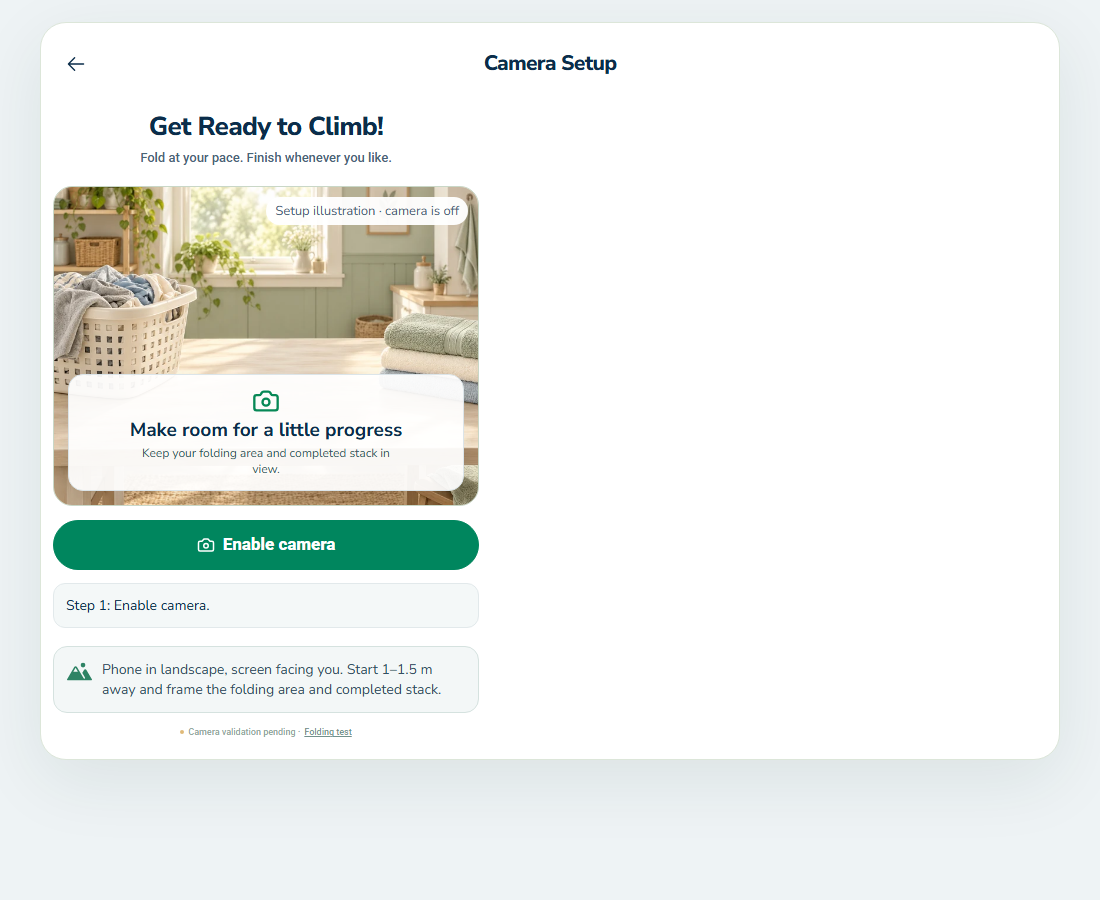
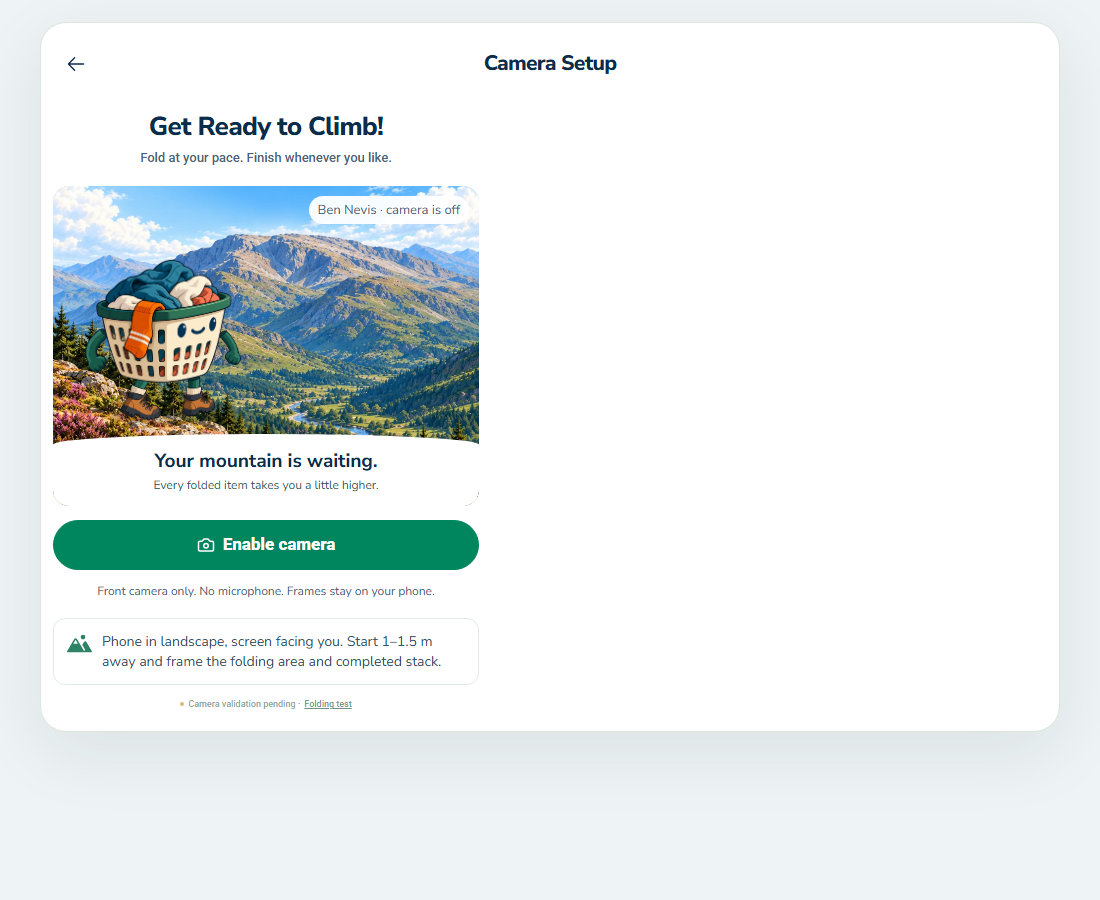
Bring camera setup into the illustrated app family [skip netlify]

Changed region(s): [[0.0309, 0.1867, 0.4327, 0.56], [0.0309, 0.6533, 0.9582, 0.8711]]

diff --git a/src/components/CameraLab.tsx b/src/components/CameraLab.tsx
@@ -5,6 +5,7 @@ import { FoldingDetector } from '../vision/detector'
 import { DEFAULT_ZONES, VISION, ZONE_NAMES, difference, extractSignals } from '../vision/signals'
 import type { Rect, Signals, VisionConfig, ZoneName, Zones } from '../vision/signals'
 import { FieldTestGuide } from './FieldTestGuide'
+import { ScenicArtwork } from './ScenicArtwork'
 import type { GuideSession } from './FieldTestGuide'
 import type { ReactNode } from 'react'
 
@@ -139,9 +140,9 @@ export function CameraLab({ active, paused = false, presentation = 'field', onEv
     <div className={`camera-preview ${editing ? 'editing' : ''}`} style={{ aspectRatio: presentation === 'game' && camera !== 'on' ? 4 / 3 : ratio, '--camera-ratio': ratio } as CSSProperties} onPointerDown={e => { if (editing) { e.currentTarget.setPointerCapture(e.pointerId); drag.current = position(e) } }} onPointerMove={drawZone} onPointerUp={e => { drawZone(e); drag.current = null }} onPointerCancel={() => { drag.current = null }}>
       <video ref={video} muted playsInline autoPlay style={{ transform: flipped ? 'scaleX(-1)' : 'none' }} aria-label={`${flipped ? 'Flipped' : 'Original'} full-frame live camera preview`} />
       {camera !== 'on' && (presentation === 'game' ? <div className="camera-empty illustrated-setup">
-        <img src="/art/folding-workspace-guide.webp" alt="Setup illustration: pickup basket on the left, empty folding area in the centre, completed stack on the right." />
-        <span className="illustration-label">Setup illustration · camera is off</span>
-        <div className="camera-off-message"><Camera size={28}/><strong>{camera === 'requesting' ? 'Allow front camera access' : 'Make room for a little progress'}</strong><span>Keep your folding area and completed stack in view.</span></div>
+        <ScenicArtwork />
+        <span className="illustration-label">Ben Nevis · camera is off</span>
+        <div className="camera-off-message"><strong>{camera === 'requesting' ? 'Allow front camera access' : 'Your mountain is waiting.'}</strong><span>Every folded item takes you a little higher.</span></div>
       </div> : <div className="camera-empty"><Camera size={36} /><strong>{camera === 'requesting' ? 'Allow camera access in your browser' : 'Your chore is the controller'}</strong><span>Turn on your front camera to set up the folding test.</span></div>)}
       {camera === 'on' && ZONE_NAMES.map((name, i) => <div key={name} className={`zone zone-${name}`} style={{ left: `${zones[name].x * 100}%`, top: `${zones[name].y * 100}%`, width: `${zones[name].w * 100}%`, height: `${zones[name].h * 100}%` }}><span>{i + 1} · {name === 'source' ? 'Source pile' : name === 'work' ? 'Fold here' : 'Completed'}</span></div>)}
       {camera === 'on' && <span className="preview-label">{flipped ? 'Flipped view' : 'Original view'} · front camera · full frame</span>}
@@ -165,7 +166,7 @@ export function CameraLab({ active, paused = false, presentation = 'field', onEv
     {camera === 'on' && !zoom && <p className="framing-note">Seeing too little of the table? Move the phone further away, with its screen facing you. This lens does not expose browser zoom controls.</p>}
     {editing && <div className="zone-editor"><label>Zone to draw <select value={selected} onChange={e => setSelected(e.target.value as ZoneName)}>{ZONE_NAMES.map(n => <option key={n} value={n}>{n}</option>)}</select></label><p>Drag a rectangle in the preview. Keep zones separate and below the top strip.</p><button onClick={() => setZones(DEFAULT_ZONES)}>Reset zones</button></div>}
     {overlap && <p className="error">Zones overlap. Adjust them before calibrating.</p>}
-    <p className={`setup-note ${ready ? 'calibrated' : ''}`} role="status">{ready ? <><Check size={20} /> {active ? 'Test running. Fold in the centre, place in Completed, then wait for Ready.' : 'Calibration captured. If Fold here and Completed are empty, tap Start folding now.'}</> : camera !== 'on' ? 'Step 1: Enable camera.' : editing ? 'Finish zone setup before calibrating.' : overlap ? 'Separate the zones before calibrating.' : calibrationCount ? 'Calibrating the two empty areas. Keep your hands out for about 2 seconds.' : 'Step 2: Empty Fold here and Completed, withdraw hands, then tap Calibrate. The source box only needs to cover where you pick items up; the rest of the pile can be outside it.'}</p>
+    <p className={`setup-note ${ready ? 'calibrated' : ''}`} role="status">{ready ? <><Check size={20} /> {active ? 'Test running. Fold in the centre, place in Completed, then wait for Ready.' : 'Calibration captured. If Fold here and Completed are empty, tap Start folding now.'}</> : camera !== 'on' ? (presentation === 'game' ? 'Front camera only. No microphone. Frames stay on your phone.' : 'Step 1: Enable camera.') : editing ? 'Finish zone setup before calibrating.' : overlap ? 'Separate the zones before calibrating.' : calibrationCount ? 'Calibrating the two empty areas. Keep your hands out for about 2 seconds.' : 'Step 2: Empty Fold here and Completed, withdraw hands, then tap Calibrate. The source box only needs to cover where you pick items up; the rest of the pile can be outside it.'}</p>
     {presentation === 'field' && <details className="advanced"><summary>Detection settings · field-test tools</summary><p>Changing settings requires recalibration. Values are experimental.</p>
       {([{ key: 'motionThreshold', label: 'Movement threshold', min: .02, max: .2, step: .005 }, { key: 'placementThreshold', label: 'Placement change threshold', min: .02, max: .3, step: .005 }, { key: 'occupancyThreshold', label: 'Work area clear threshold', min: .02, max: .2, step: .005 }, { key: 'minimumWorkMs', label: 'Minimum work time (ms)', min: 1000, max: 6000, step: 250 }, { key: 'stableMs', label: 'Stable placement time (ms)', min: 500, max: 3000, step: 100 }, { key: 'cooldownMs', label: 'Cooldown (ms)', min: 1000, max: 6000, step: 250 }, { key: 'cycleTimeoutMs', label: 'Cycle timeout (ms)', min: 30000, max: 180000, step: 10000 }] as const).map(s => <label key={s.key}>{s.label} <output>{config[s.key]}</output><input aria-label={s.label} type="range" disabled={active} min={s.min} max={s.max} step={s.step} value={config[s.key]} onChange={e => { invalidate(); setConfig(c => ({ ...c, [s.key]: Number(e.target.value) })) }} /></label>)}
     </details>}

diff --git a/src/components/visual-refinement.css b/src/components/visual-refinement.css
@@ -80,7 +80,12 @@
 .game-shell .community-motto span{color:var(--muted);font-size:12px}
 .game-shell .game-camera .setup-note{background:var(--surface-soft);border:1px solid var(--border);color:var(--navy)}
 .game-shell .game-camera .setup-note.calibrated{background:var(--selected);border-color:#00865e}
-.game-shell .game-camera .camera-off-message{background:#ffffffed;border-color:#dce5e9;box-shadow:0 6px 18px #15334314;color:var(--navy)}
+.game-shell .game-camera .camera-off-message{bottom:0;left:0;right:0;background:#fff;border:0;border-radius:50% 50% 0 0 / 15% 15% 0 0;padding:17px 10px 12px;box-shadow:none;color:var(--navy)}
+.game-camera .illustrated-setup .scenic-artwork-companion{width:42%;left:5%;bottom:23%}
+.game-camera .illustrated-setup .scenic-artwork-landscape{object-position:50% 40%}
+.game-shell .game-camera:has(.camera-off-message) .camera-preview{border:0;border-radius:16px}
+.game-shell .game-camera:has(.camera-off-message) .setup-note{background:none;border:0;padding:0 8px;text-align:center;justify-content:center;font-size:12px;line-height:1.45;color:var(--muted)}
+.game-shell.screen-camera .phone-position{background:#fff;border-color:var(--border);border-radius:12px}
 .game-shell .game-camera .illustration-label{background:#fffffff2;color:var(--muted)}
 .game-shell .camera-intro h1{font-size:26px;line-height:1.15}
 .game-shell .camera-intro p{font-size:13px;color:var(--muted)}

diff --git a/docs/project-state.md b/docs/project-state.md
@@ -2,6 +2,12 @@
 
 ## Current: approved-board refinement on `visual-refinement`
 
+- Camera style correction: the owner rejected the photographic laundry-room art as
+  inconsistent. Camera-off setup now reuses the same illustrated Ben Nevis and
+  approved basket as home, with the white welcome-style curved caption, flat CTA,
+  quieter privacy copy and white guidance. Real camera replaces the artwork once
+  enabled; detection/calibration remain unchanged. Narrow/portrait/landscape visuals,
+  build and three targeted entry/synthetic-camera browser tests passed.
 - Supporting-screen pass: shared white/navy/emerald surfaces, consistent stat art,
   Ben Nevis artwork in the list/profile, basket empty history, quieter demo labels,
   and landscape camera-off setup with its action visible without scrolling.

diff --git a/design-qa.md b/design-qa.md
@@ -3,6 +3,9 @@
 ## Current gate: visual refinement
 
 Latest supporting-screen evidence: `docs/design/review/app-consistency/`.
+Camera-off artwork now shares home's illustrated Ben Nevis/basket and welcome's
+curved white caption, replacing the rejected photographic laundry room. Inspected
+at 320 px, 390 px and landscape widths; build and 3 targeted browser tests passed.
 Shared surfaces, controls, icons, profile artwork, empty history and mountain list
 have been inspected across phone, narrow phone, landscape and desktop. The camera
 introduction now fits landscape with Enable camera visible. Entry goes directly to
